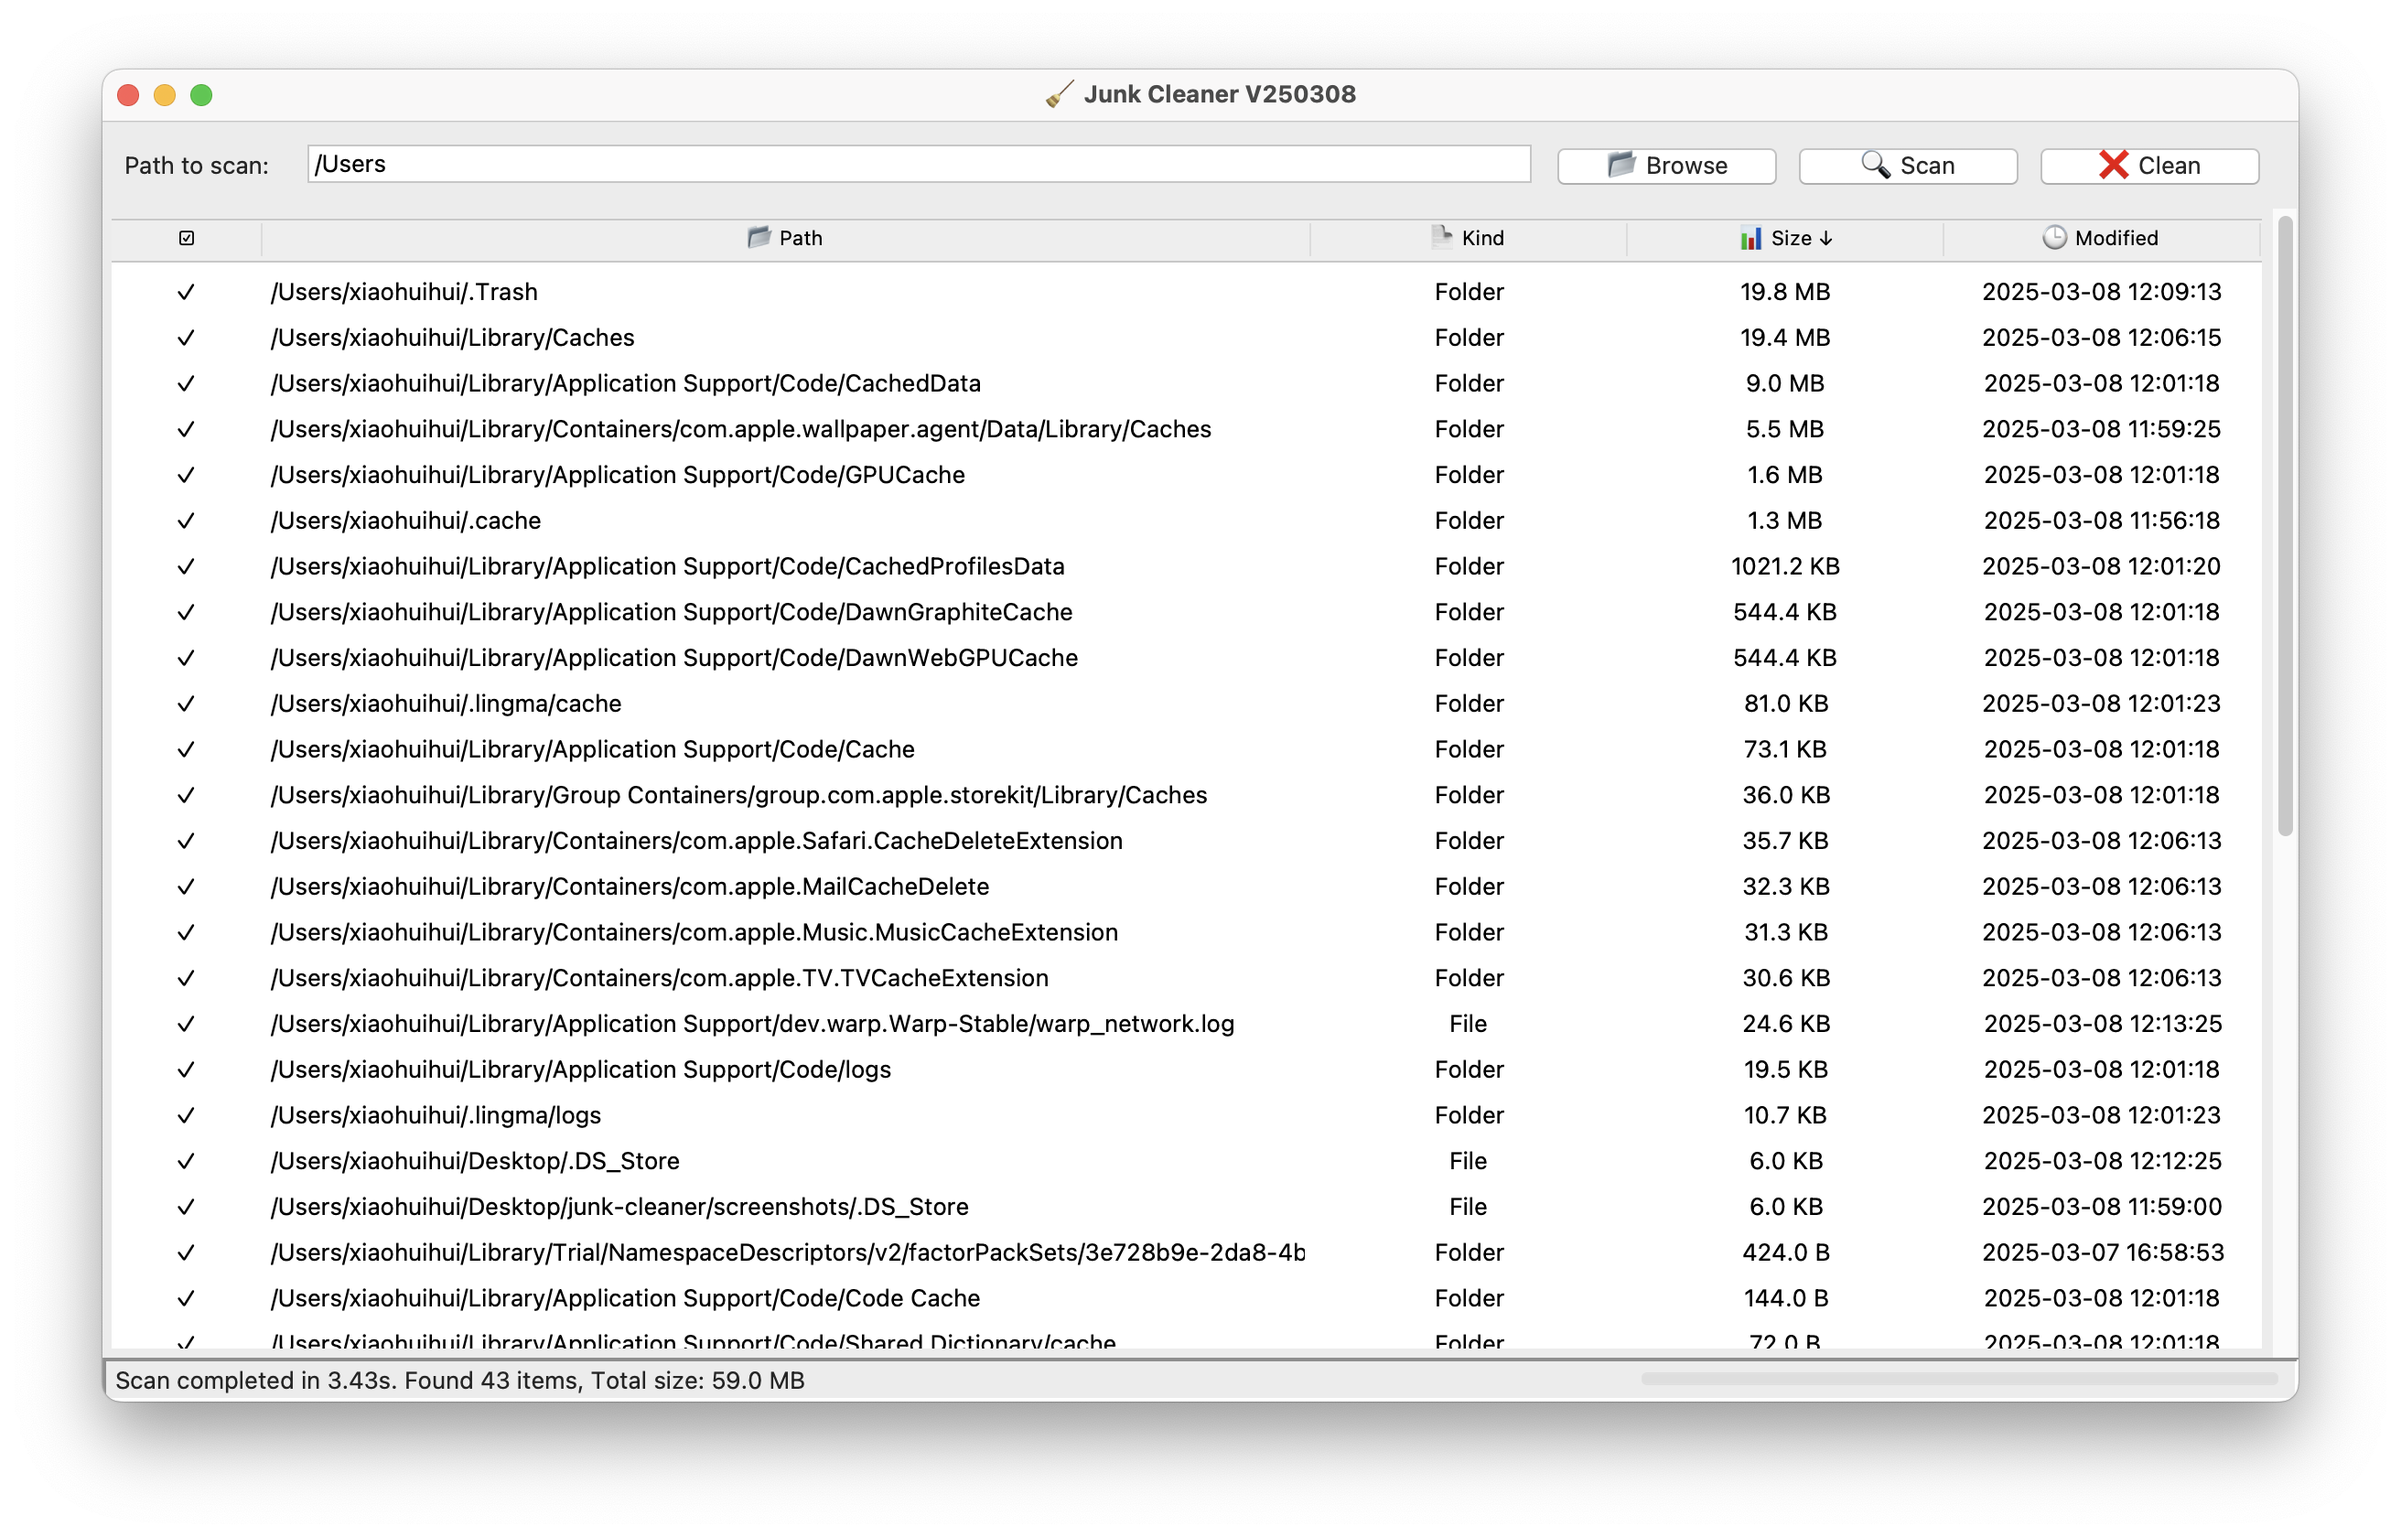
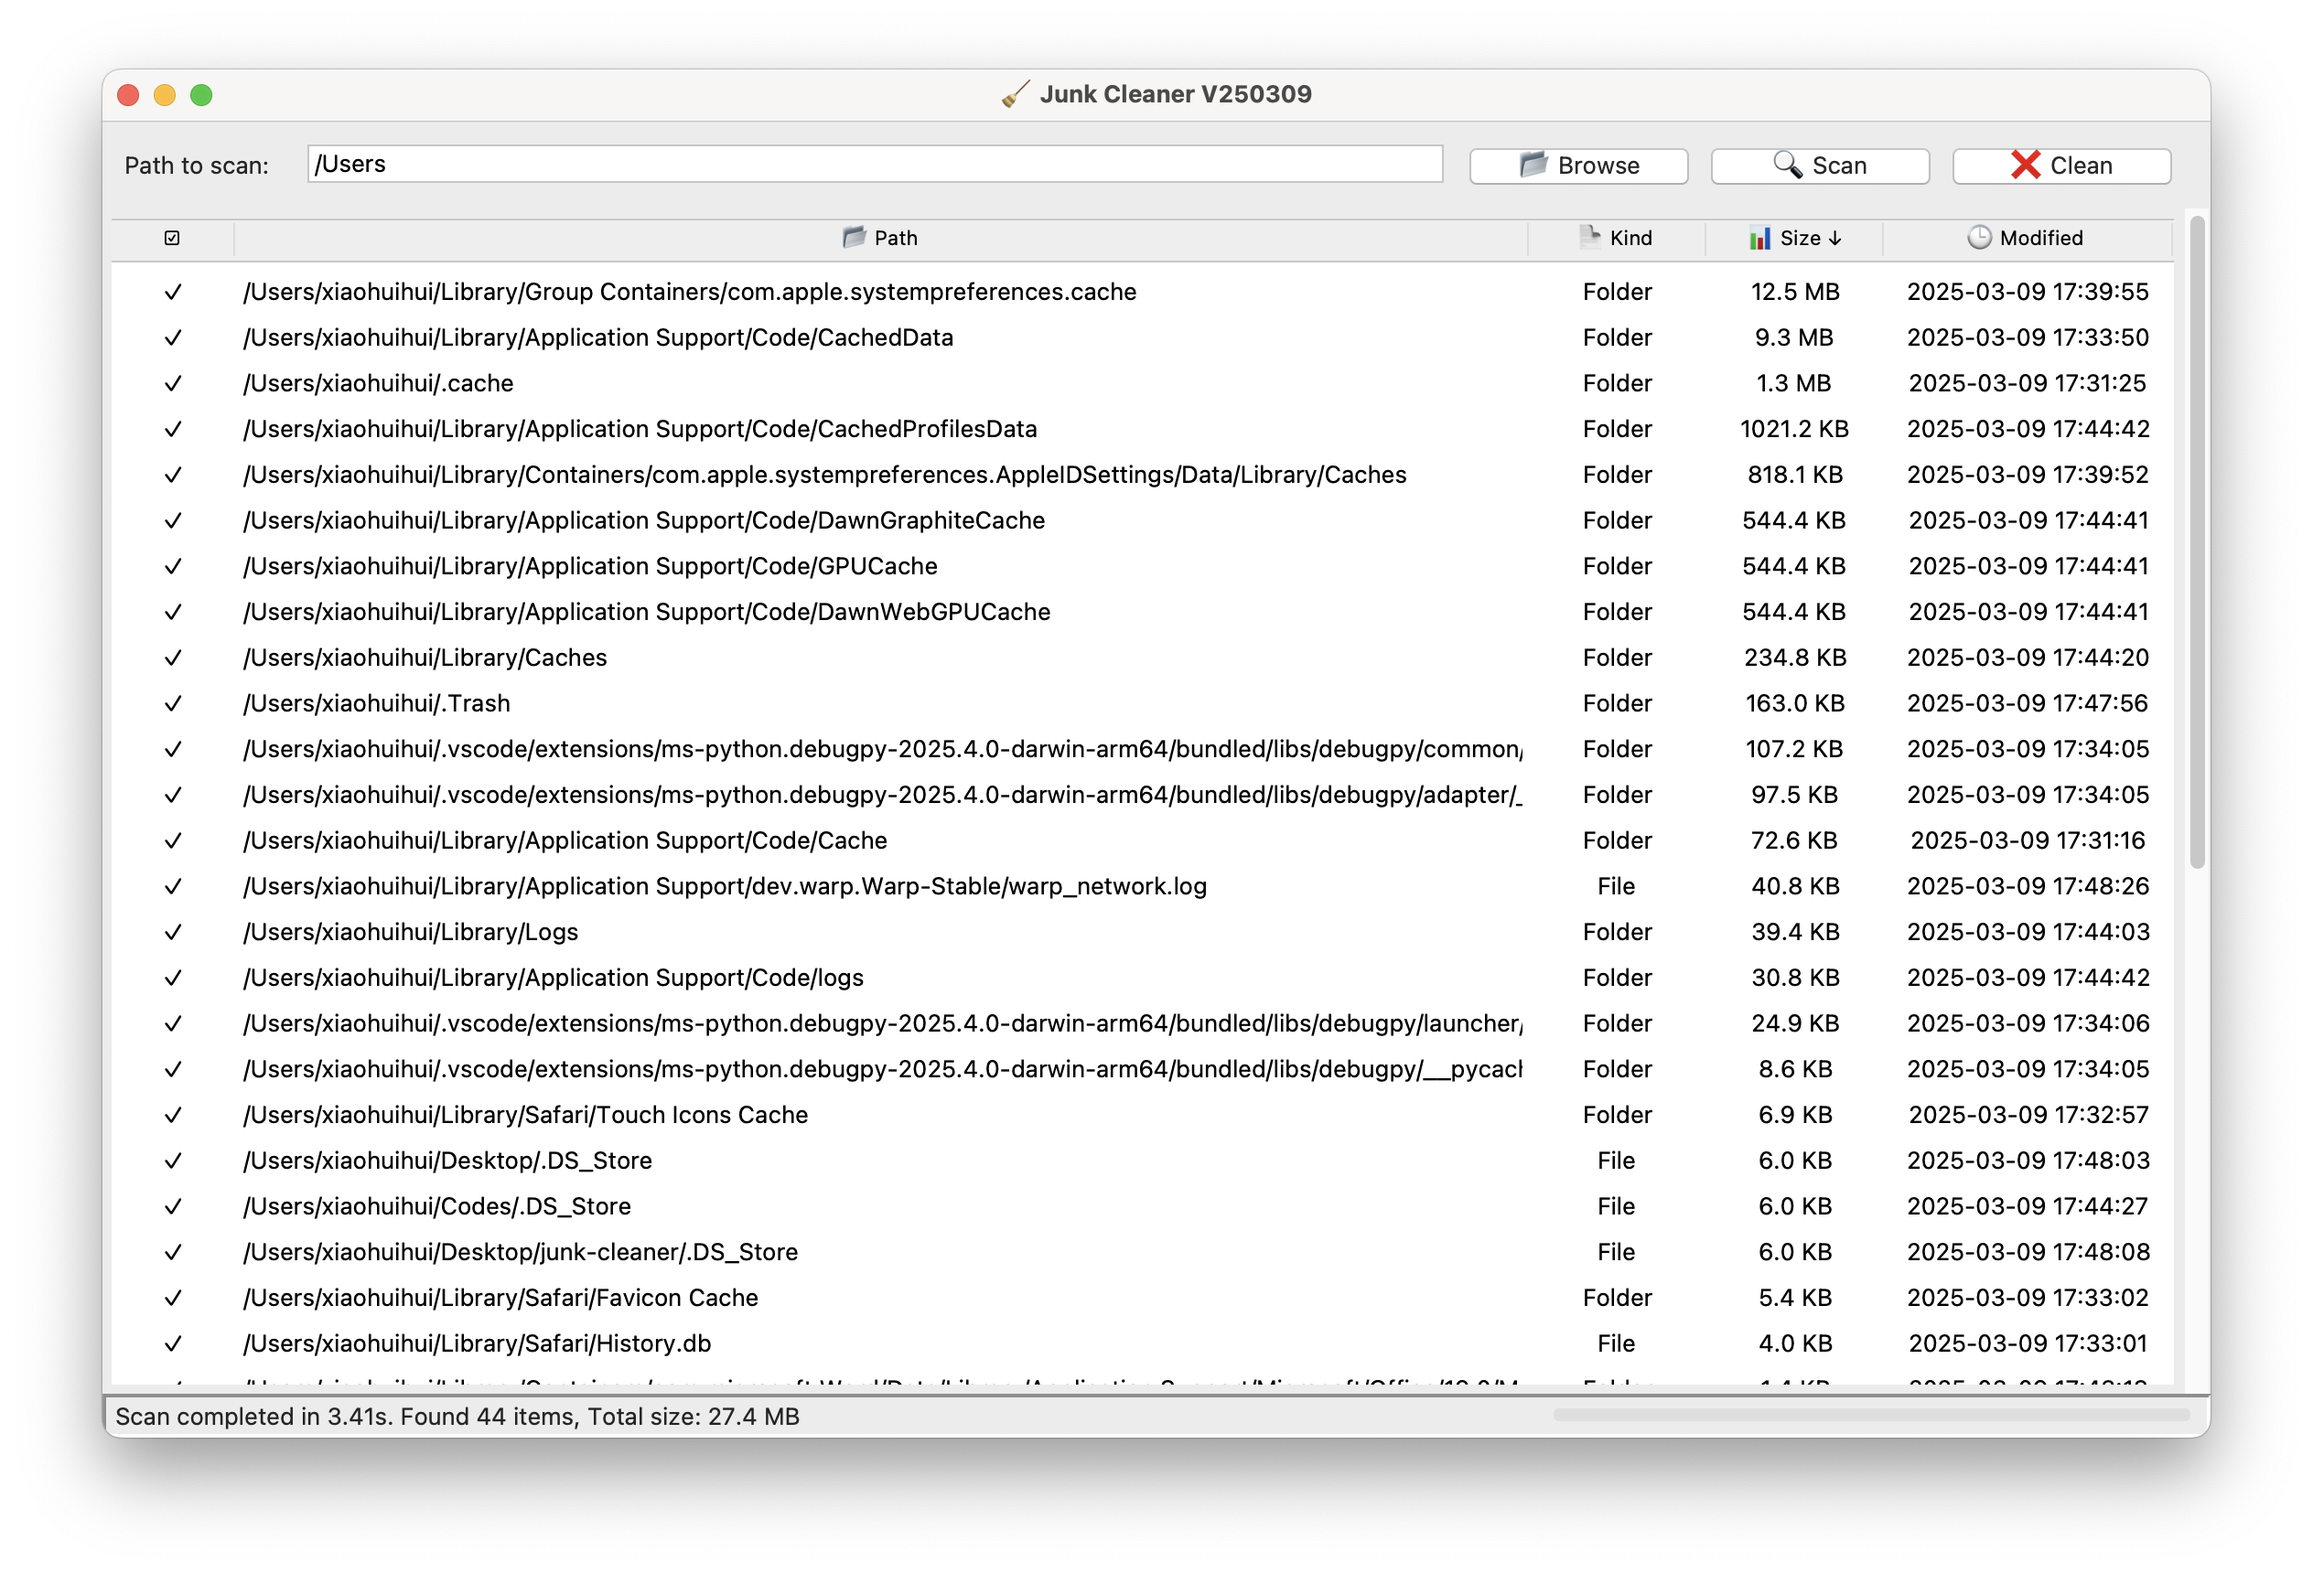
Updated 250309

Changed region(s): [[0.0312, 0.031, 0.9688, 0.9286]]

diff --git a/cleaner.py b/cleaner.py
@@ -151,8 +151,8 @@ class GUI:
 
         # 创建主窗口
         self.root = tk.Tk()
-        self.root.geometry("1200x700")
-        self.root.minsize(900, 600)
+        self.root.geometry("1152x720")
+        self.root.minsize(1024, 640)
         self.root.title(APP_TITLE)
 
         # 路径标签
@@ -189,9 +189,9 @@ class GUI:
         self.tree.heading("modified", text="🕒 Modified", command=lambda: self.treeview_sort("modified", False))
 
         self.tree.column("select", width=10, anchor="center")
-        self.tree.column("path", width=500)
-        self.tree.column("kind", width=100, anchor="center")
-        self.tree.column("size", width=100, anchor="center")
+        self.tree.column("path", width=650, anchor="w")
+        self.tree.column("kind", width=40, anchor="center")
+        self.tree.column("size", width=40, anchor="center")
         self.tree.column("modified", width=100, anchor="center")
 
         ttk.Style().configure("Treeview", rowheight=25)

diff --git a/README.md b/README.md
@@ -1,8 +1,8 @@
 # 🧹 Junk Cleaner / 垃圾文件清理工具 - cleaner.py
 
 <div align="center">
-  <img width="1000" alt="Screenshot_GUI" src="screenshots/cleaner_gui.png" />
-  <img width="1000" alt="Screenshot_CLI" src="screenshots/cleaner_cli.png" />
+  <img alt="Screenshot_GUI" src="screenshots/cleaner_gui.png" />
+  <img alt="Screenshot_CLI" src="screenshots/cleaner_cli.png" />
 </div>
 
 <p align="center">
@@ -140,8 +140,8 @@ Currently, only the [macOS arm64 version](https://github.com/roperescuer/junk-cl
 ## imac-accent-colors / iMac 主题色设置工具 - imac_color.py
 
 <div align="center">
-  <img width="500" src="screenshots/imac-color_gui.png" />
-  <img width="1000" src="screenshots/imac-color_cli.png" />
+  <img src="screenshots/imac-color_gui.png" />
+  <img src="screenshots/imac-color_cli.png" />
 </div>
 
 Enable iMac M1 accent colors / 启用 iMac 主题颜色
@@ -152,7 +152,7 @@ Method from / 方法来自 https://georgegarside.com/blog/macos/imac-m1-accent-c
 ## Doge - doge.py
 
 <div align="center">
-  <img width="800" src="screenshots/doge.png" />
+  <img src="screenshots/doge.png" />
 </div>
 
 Forked from [Olivia5k/doge](https://github.com/Olivia5k/doge) / 从 [Olivia5k/doge](https://github.com/Olivia5k/doge) fork
